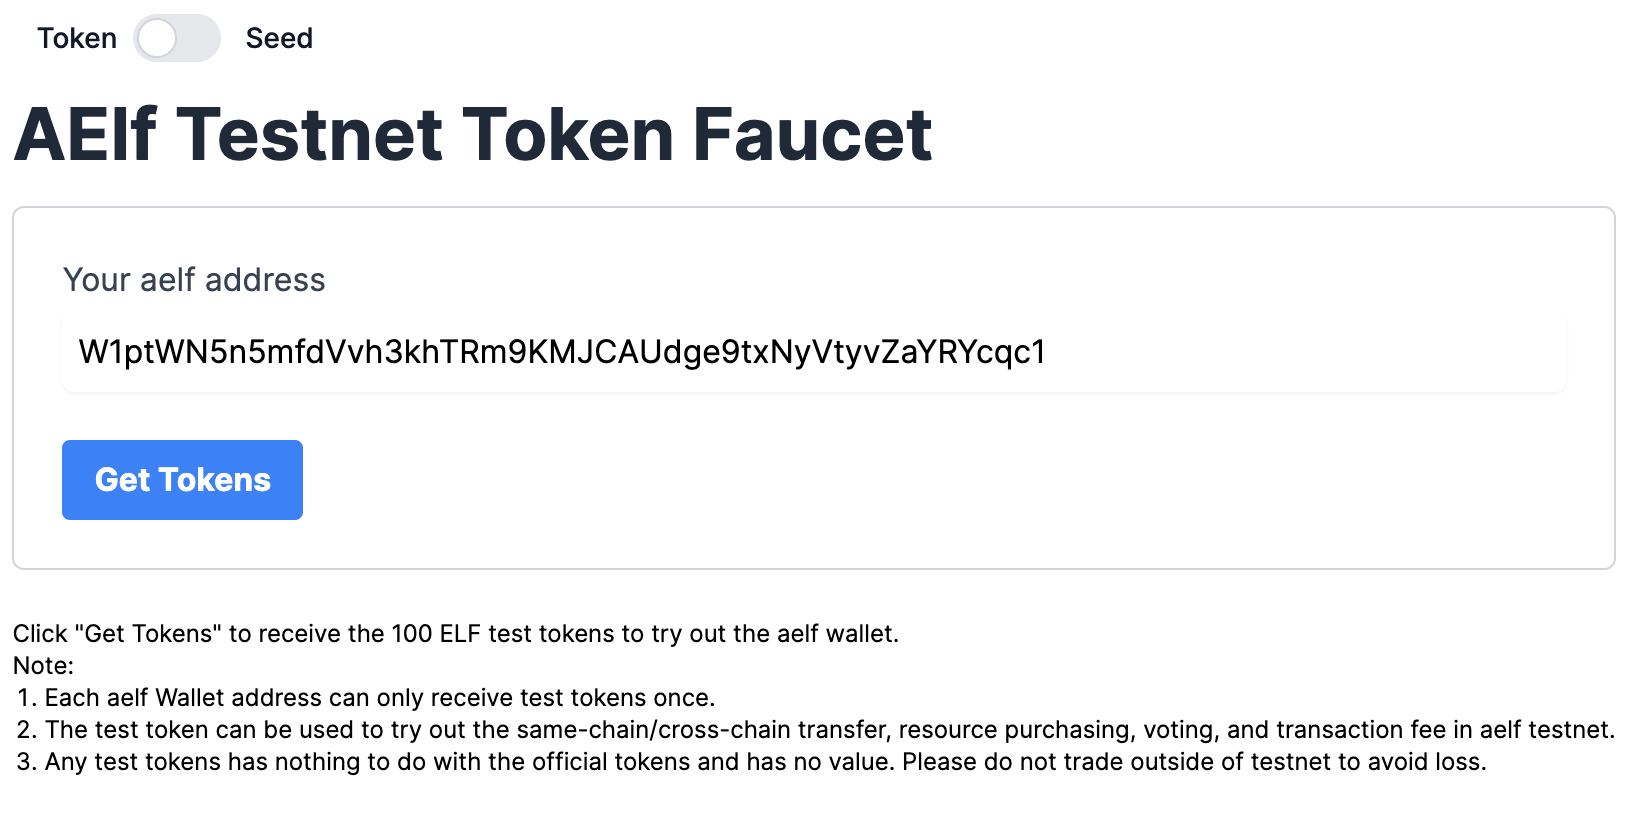
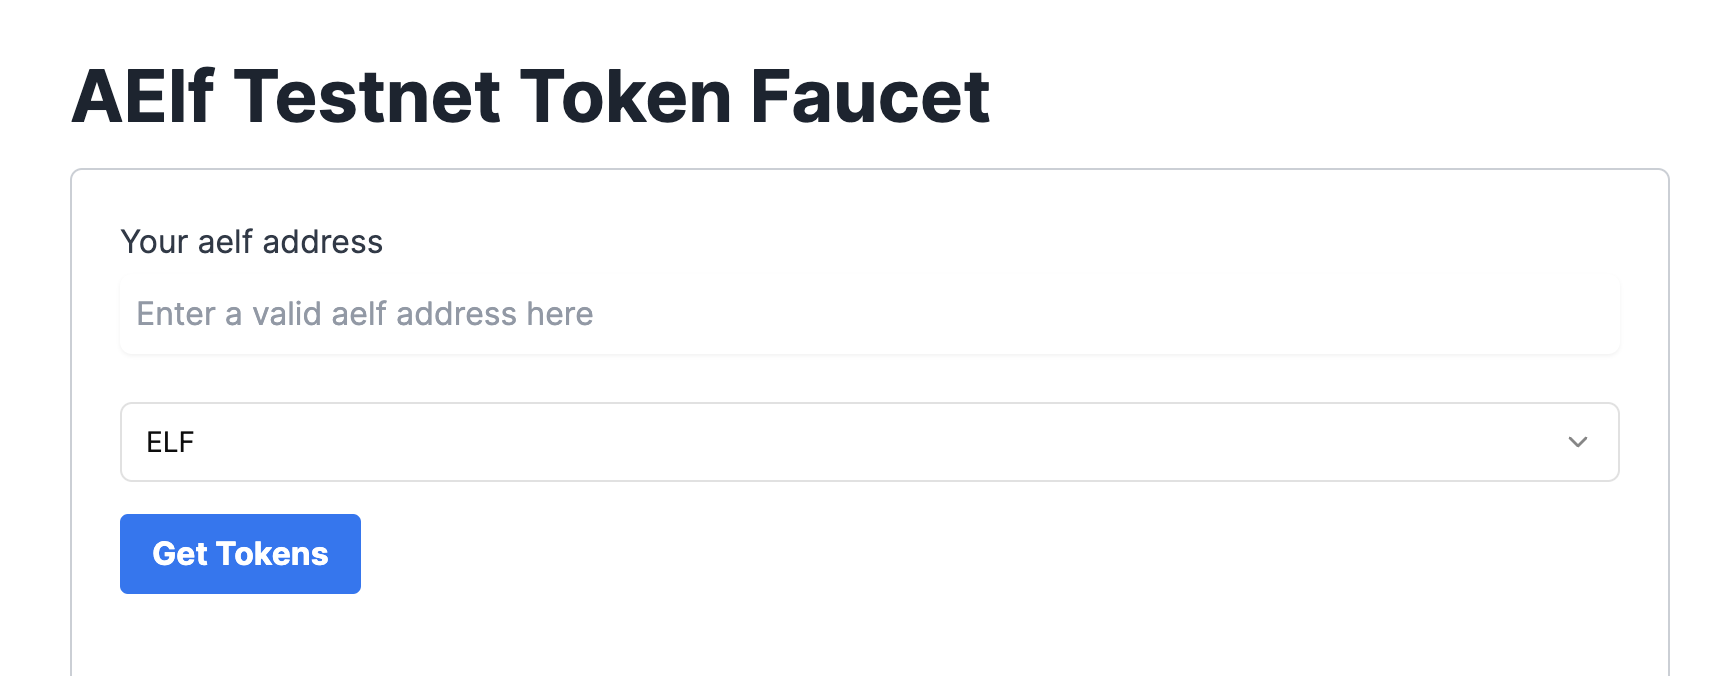
feat(faucet) added tutorial for getting testnest tokens

diff --git a/docs/_get-testnet-token-seed.md b/docs/_get-testnet-token-seed.md
@@ -1,6 +1,6 @@
-To acquire testnet SEED for creating fungible or non-fungible tokens on aelf testnet.
+To acquire testnet Token type SEED for creating fungible or non-fungible tokens on aelf testnet.
 
-**Get ELF Seed**
+**Get Token Type Seed Token**
 
 import Tabs from '@theme/Tabs';
 import TabItem from '@theme/TabItem';
@@ -8,7 +8,7 @@ import TabItem from '@theme/TabItem';
 <Tabs>
   <TabItem value="cli" label="CLI" default>
 
-Run this command to get testnet SEED token from faucet.
+Run this command to get testnet Token type SEED token from faucet.
 
 ```bash title="Terminal"
 curl -X POST "https://faucet.aelf.dev/api/claim-seed?walletAddress=$WALLET_ADDRESS" -H "accept: application/json" -d ""
@@ -17,9 +17,9 @@ curl -X POST "https://faucet.aelf.dev/api/claim-seed?walletAddress=$WALLET_ADDRE
   </TabItem>
   <TabItem value="web" label="Web" default>
 
-Go to this url [https://faucet-ui-preview.vercel.app](https://faucet-ui-preview.vercel.app). Click on the switch to toggle to "Seed". Enter your address and click `Get Seed`.
+Go to this url [https://faucet-ui-preview.vercel.app](https://faucet-ui-preview.vercel.app). Click on the dropdown to select "Token Seed". Enter your address and click `Get Seed`.
 
-![result](/img/get-testnet-seed.png)
+![result](/img/get-testnet-token-seed.png)
 
   </TabItem>
 </Tabs>

diff --git a/docs/tools/testnet-faucet.md b/docs/tools/testnet-faucet.md
@@ -1,0 +1,27 @@
+---
+title: aelf Faucet
+sidebar_position: 1
+---
+
+# aelf Faucet
+
+## 1. Introduction
+
+The aelf Testnet Faucet is a vital resource for developers working on the aelf blockchain. It provides free test tokens, particularly, ELF (native aelf token), Token type SEED token (for creation of new token), NFT type SEED token (for creation of new NFT collection), which are essential for deploying and testing smart contracts, running transactions, and exploring the functionalities of aelf without the risk of losing real assets. By using the faucet, developers can ensure their applications function correctly and efficiently before deploying them to the mainnet.
+
+## 2. Using aelf Faucet
+
+### 2.1 Getting Testnet ELF Tokens
+import GetTestnetToken from '@site/docs/\_get-testnet-token.md';
+
+<GetTestnetToken/>
+
+### 2.2 Getting Testnet Token Type SEED Token
+import GetTestnetSEEDToken from '@site/docs/\_get-testnet-token-seed.md';
+
+<GetTestnetSEEDToken/>
+
+### 2.3 Getting Testnet NFT Type SEED Token
+import GetTestnetNFTSEEDToken from '@site/docs/\_get-testnet-token-seed-nft.md';
+
+<GetTestnetNFTSEEDToken/>

diff --git a/docs/tools/aelf-contract-templates.md b/docs/tools/aelf-contract-templates.md
@@ -1,12 +1,12 @@
 ---
-sidebar_position: 1
+sidebar_position: 2
 ---
 
-# AELF Contract Templates
+# aelf Contract Templates
 
-AELF Contract Templates is a scaffolding tool designed to allow the developer to start creating smart contracts easily.
+aelf Contract Templates is a scaffolding tool designed to allow the developer to start creating smart contracts easily.
 
-To install AELF Contract Templates:
+To install aelf Contract Templates:
 
 import Tabs from '@theme/Tabs';
 import TabItem from '@theme/TabItem';
@@ -14,7 +14,7 @@ import TabItem from '@theme/TabItem';
 <Tabs>
   <TabItem value="codespaces" label="Codespaces" default>
 
-AELF Contract Templates is included in the Codespace.
+aelf Contract Templates is included in the Codespace.
 
 import Codespace from '@site/docs/\_prep-codespace.md';
 

diff --git a/docs/_get-testnet-token-seed-nft.md b/docs/_get-testnet-token-seed-nft.md
@@ -1,0 +1,25 @@
+To acquire testnet NFT type SEED for creating fungible or non-fungible tokens on aelf testnet.
+
+**Get NFT Type Seed Token**
+
+import Tabs from '@theme/Tabs';
+import TabItem from '@theme/TabItem';
+
+<Tabs>
+  <TabItem value="cli" label="CLI" default>
+
+Run this command to get testnet NFT type SEED token from faucet.
+
+```bash title="Terminal"
+curl -X POST "https://faucet.aelf.dev/api/claim-nft-seed?walletAddress=$WALLET_ADDRESS" -H "accept: application/json" -d ""
+```
+
+  </TabItem>
+  <TabItem value="web" label="Web" default>
+
+Go to this url [https://faucet-ui-preview.vercel.app](https://faucet-ui-preview.vercel.app). Click on the dropdown to select "NFT Seed". Enter your address and click `Get Seed`.
+
+![result](/img/get-testnet-nft-seed.png)
+
+  </TabItem>
+</Tabs>

diff --git a/docs/_get-testnet-token.md b/docs/_get-testnet-token.md
@@ -1,4 +1,4 @@
-To deploy smart contracts or execute on-chain transactions on AELF, you'll require testnet ELF tokens.
+To deploy smart contracts or execute on-chain transactions on aelf, you'll require testnet ELF tokens.
 
 **Get ELF Tokens**
 

diff --git a/docs/ecosystem/explorer.md b/docs/ecosystem/explorer.md
@@ -4,7 +4,7 @@ description: View basic data on aelf chains.
 sidebar_position: 2
 ---
 
-# AELF Block Explorer
+# aelf Block Explorer
 
 ## 1. Introduction
 

diff --git a/bak/dapps/explorer.md b/bak/dapps/explorer.md
@@ -1,4 +1,4 @@
 ---
-title: Getting the data from the AELF Explorer
+title: Getting the data from the aelf Explorer
 sidebar_position: 4
 ---

diff --git a/docs/tools/protobuf-extension.md b/docs/tools/protobuf-extension.md
@@ -1,6 +1,6 @@
 ---
 title: Protobuf Extension
-sidebar_position: 2
+sidebar_position: 4
 ---
 
 # Protobuf Extension
